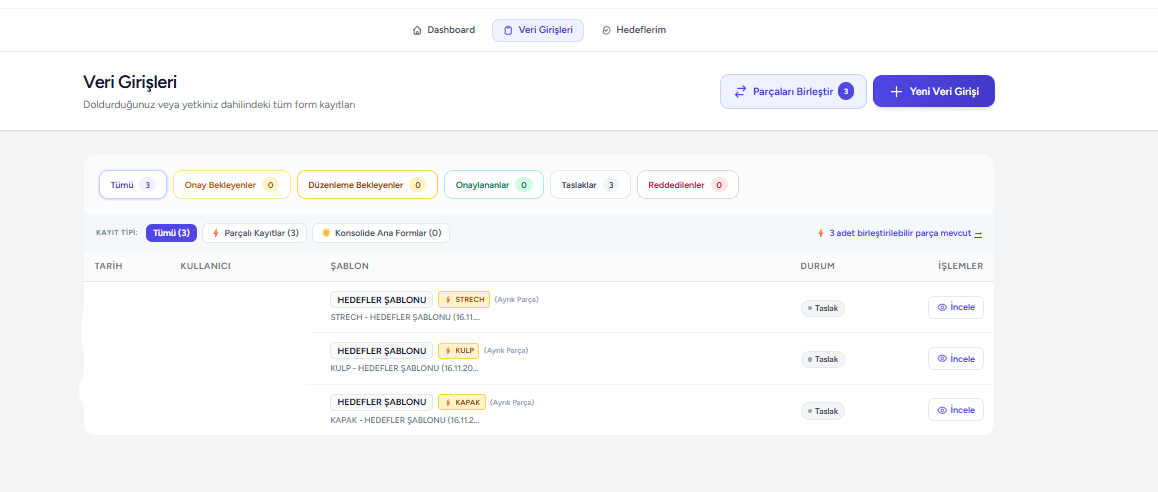
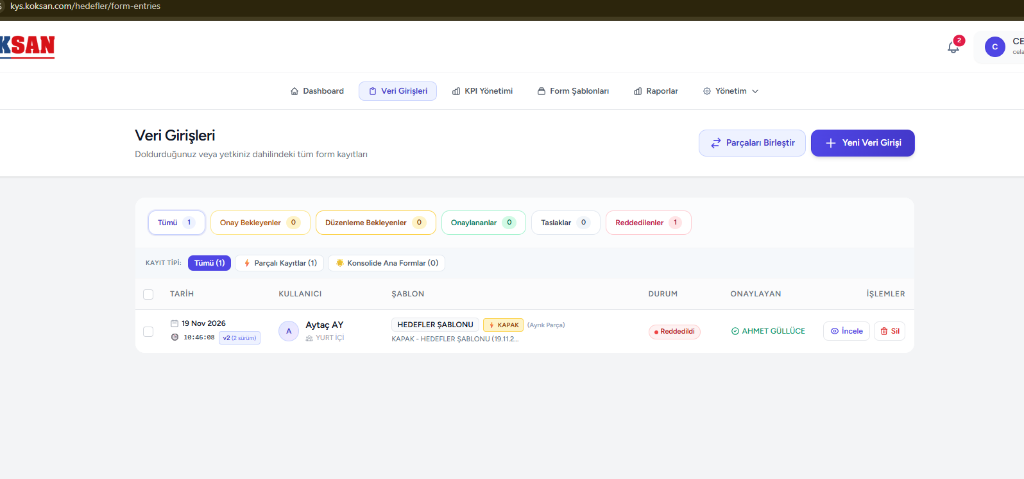
fix(egitim): 9. adim ekran goruntusu guncellendi (tarih, kullanici ve yonetici dolu gercek gorsel) ve pinler hizalandi

diff --git a/public/egitim/hedefler/index.html b/public/egitim/hedefler/index.html
@@ -1606,7 +1606,7 @@
 
             <!-- EKRAN ÜZERİNDEKİ NUMARALI HOTSPOT PINLERİ -->
                         <div class="hotspot-pin blue" 
-                 style="top: 35.0%; left: 68.0%;"
+                 style="top: 29.2%; left: 71.8%;"
                  data-slide="9" 
                  data-pin="1" 
                  onmousedown="onPinMouseDown(event)" 
@@ -1615,22 +1615,22 @@
                  title="Parçaları Birleştir Butonu">
               1            </div>
                         <div class="hotspot-pin amber" 
-                 style="top: 55.0%; left: 40.0%;"
+                 style="top: 66.8%; left: 30.0%;"
                  data-slide="9" 
                  data-pin="2" 
                  onmousedown="onPinMouseDown(event)" 
                  ontouchstart="onPinTouchStart(event)" 
                  onclick="focusNote('s9-n2')" 
-                 title="Birleştirilecek Kayıtların Seçimi">
+                 title="Tarih, Kullanıcı ve Şablon Bilgisi">
               2            </div>
                         <div class="hotspot-pin emerald" 
-                 style="top: 78.0%; left: 70.0%;"
+                 style="top: 66.8%; left: 66.0%;"
                  data-slide="9" 
                  data-pin="3" 
                  onmousedown="onPinMouseDown(event)" 
                  ontouchstart="onPinTouchStart(event)" 
                  onclick="focusNote('s9-n3')" 
-                 title="Seçilen Parçaları Birleştir Butonu">
+                 title="Kayıt Durumu ve Onaylayan Yönetici">
               3            </div>
                       </div>
 
@@ -1668,18 +1668,18 @@
                         <div id="s9-n2" class="card-note p-3.5 rounded-xl bg-white border border-slate-200 shadow-2xs cursor-pointer" onclick="highlightPin(9, 2)">
               <div class="flex items-center gap-2 font-bold text-slate-900 text-[13px]">
                 <span class="pin-badge amber">2</span>
-                <span>Birleştirilecek Kayıtların Seçimi</span>
+                <span>Tarih, Kullanıcı ve Şablon Bilgisi</span>
               </div>
               <p class="text-slate-600 mt-1.5 leading-relaxed text-xs">
-                Açılan pencerede aynı anda onaya göndermek istediğiniz iş yeri kayıtlarının solundaki onay kutularını işaretleyiniz (En az 2 kayıt seçilmelidir).              </p>
+                Tabloda giriş yapılan tarih/saat, formu dolduran kullanıcı (Aytaç AY), ait olduğu iş yeri parçası (Örn. KAPAK) ve sürüm bilgisi (v2) listelenir.              </p>
             </div>
                         <div id="s9-n3" class="card-note p-3.5 rounded-xl bg-white border border-slate-200 shadow-2xs cursor-pointer" onclick="highlightPin(9, 3)">
               <div class="flex items-center gap-2 font-bold text-slate-900 text-[13px]">
                 <span class="pin-badge emerald">3</span>
-                <span>Seçilen Parçaları Birleştir Butonu</span>
+                <span>Kayıt Durumu & Onaylayan Yönetici</span>
               </div>
               <p class="text-slate-600 mt-1.5 leading-relaxed text-xs">
-                Seçimi tamamladıktan sonra butona basınız. Seçtiğiniz tüm fabrikaların hedefleri tek bir konsolide kayıt haline getirilir.              </p>
+                Formun anlık onay durumu (Reddedildi / Taslak / Onaylandı) ve değerlendiren grup yöneticisi (AHMET GÜLLÜCE) görüntülenir; sağdan "İncele" ile forma gidilebilir.              </p>
             </div>
                       </div>
         </div>

diff --git a/public/egitim/index.html b/public/egitim/index.html
@@ -1606,7 +1606,7 @@
 
             <!-- EKRAN ÜZERİNDEKİ NUMARALI HOTSPOT PINLERİ -->
                         <div class="hotspot-pin blue" 
-                 style="top: 35.0%; left: 68.0%;"
+                 style="top: 29.2%; left: 71.8%;"
                  data-slide="9" 
                  data-pin="1" 
                  onmousedown="onPinMouseDown(event)" 
@@ -1615,22 +1615,22 @@
                  title="Parçaları Birleştir Butonu">
               1            </div>
                         <div class="hotspot-pin amber" 
-                 style="top: 55.0%; left: 40.0%;"
+                 style="top: 66.8%; left: 30.0%;"
                  data-slide="9" 
                  data-pin="2" 
                  onmousedown="onPinMouseDown(event)" 
                  ontouchstart="onPinTouchStart(event)" 
                  onclick="focusNote('s9-n2')" 
-                 title="Birleştirilecek Kayıtların Seçimi">
+                 title="Tarih, Kullanıcı ve Şablon Bilgisi">
               2            </div>
                         <div class="hotspot-pin emerald" 
-                 style="top: 78.0%; left: 70.0%;"
+                 style="top: 66.8%; left: 66.0%;"
                  data-slide="9" 
                  data-pin="3" 
                  onmousedown="onPinMouseDown(event)" 
                  ontouchstart="onPinTouchStart(event)" 
                  onclick="focusNote('s9-n3')" 
-                 title="Seçilen Parçaları Birleştir Butonu">
+                 title="Kayıt Durumu ve Onaylayan Yönetici">
               3            </div>
                       </div>
 
@@ -1668,18 +1668,18 @@
                         <div id="s9-n2" class="card-note p-3.5 rounded-xl bg-white border border-slate-200 shadow-2xs cursor-pointer" onclick="highlightPin(9, 2)">
               <div class="flex items-center gap-2 font-bold text-slate-900 text-[13px]">
                 <span class="pin-badge amber">2</span>
-                <span>Birleştirilecek Kayıtların Seçimi</span>
+                <span>Tarih, Kullanıcı ve Şablon Bilgisi</span>
               </div>
               <p class="text-slate-600 mt-1.5 leading-relaxed text-xs">
-                Açılan pencerede aynı anda onaya göndermek istediğiniz iş yeri kayıtlarının solundaki onay kutularını işaretleyiniz (En az 2 kayıt seçilmelidir).              </p>
+                Tabloda giriş yapılan tarih/saat, formu dolduran kullanıcı (Aytaç AY), ait olduğu iş yeri parçası (Örn. KAPAK) ve sürüm bilgisi (v2) listelenir.              </p>
             </div>
                         <div id="s9-n3" class="card-note p-3.5 rounded-xl bg-white border border-slate-200 shadow-2xs cursor-pointer" onclick="highlightPin(9, 3)">
               <div class="flex items-center gap-2 font-bold text-slate-900 text-[13px]">
                 <span class="pin-badge emerald">3</span>
-                <span>Seçilen Parçaları Birleştir Butonu</span>
+                <span>Kayıt Durumu & Onaylayan Yönetici</span>
               </div>
               <p class="text-slate-600 mt-1.5 leading-relaxed text-xs">
-                Seçimi tamamladıktan sonra butona basınız. Seçtiğiniz tüm fabrikaların hedefleri tek bir konsolide kayıt haline getirilir.              </p>
+                Formun anlık onay durumu (Reddedildi / Taslak / Onaylandı) ve değerlendiren grup yöneticisi (AHMET GÜLLÜCE) görüntülenir; sağdan "İncele" ile forma gidilebilir.              </p>
             </div>
                       </div>
         </div>
